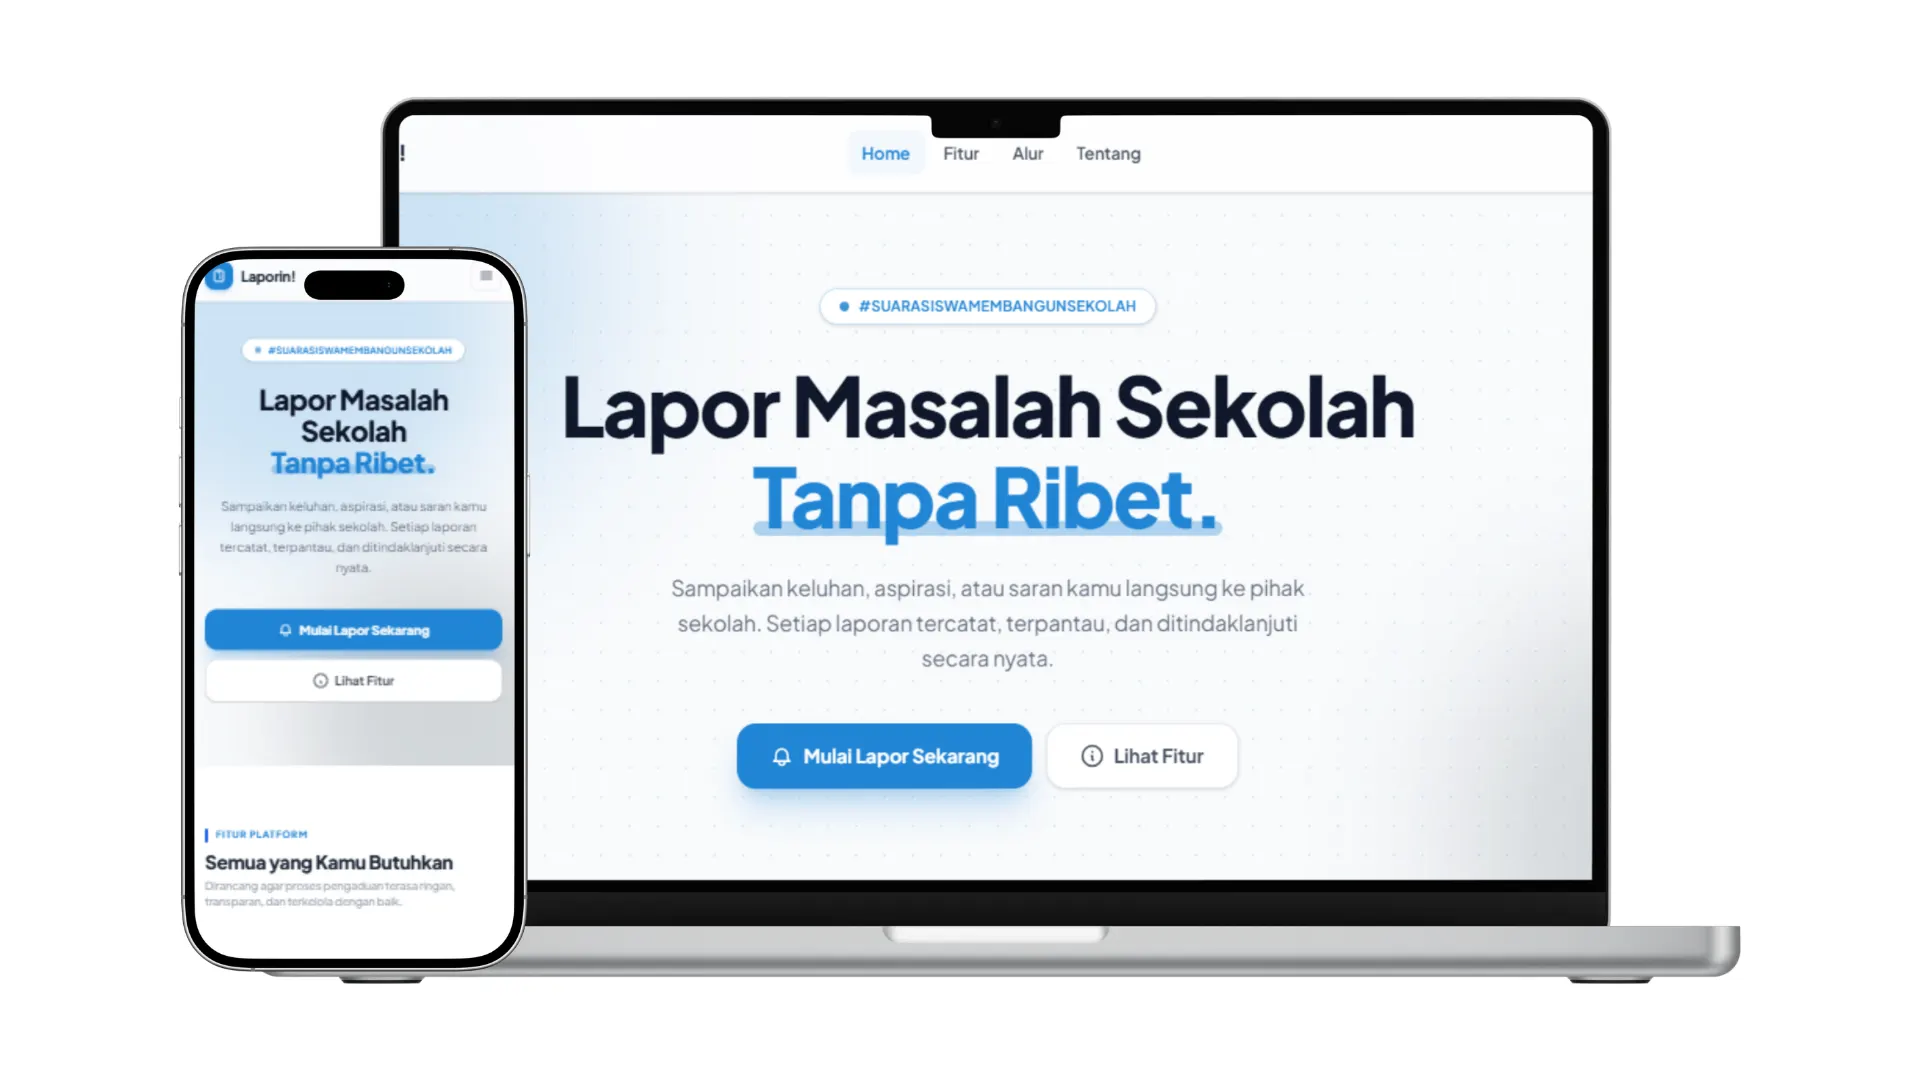
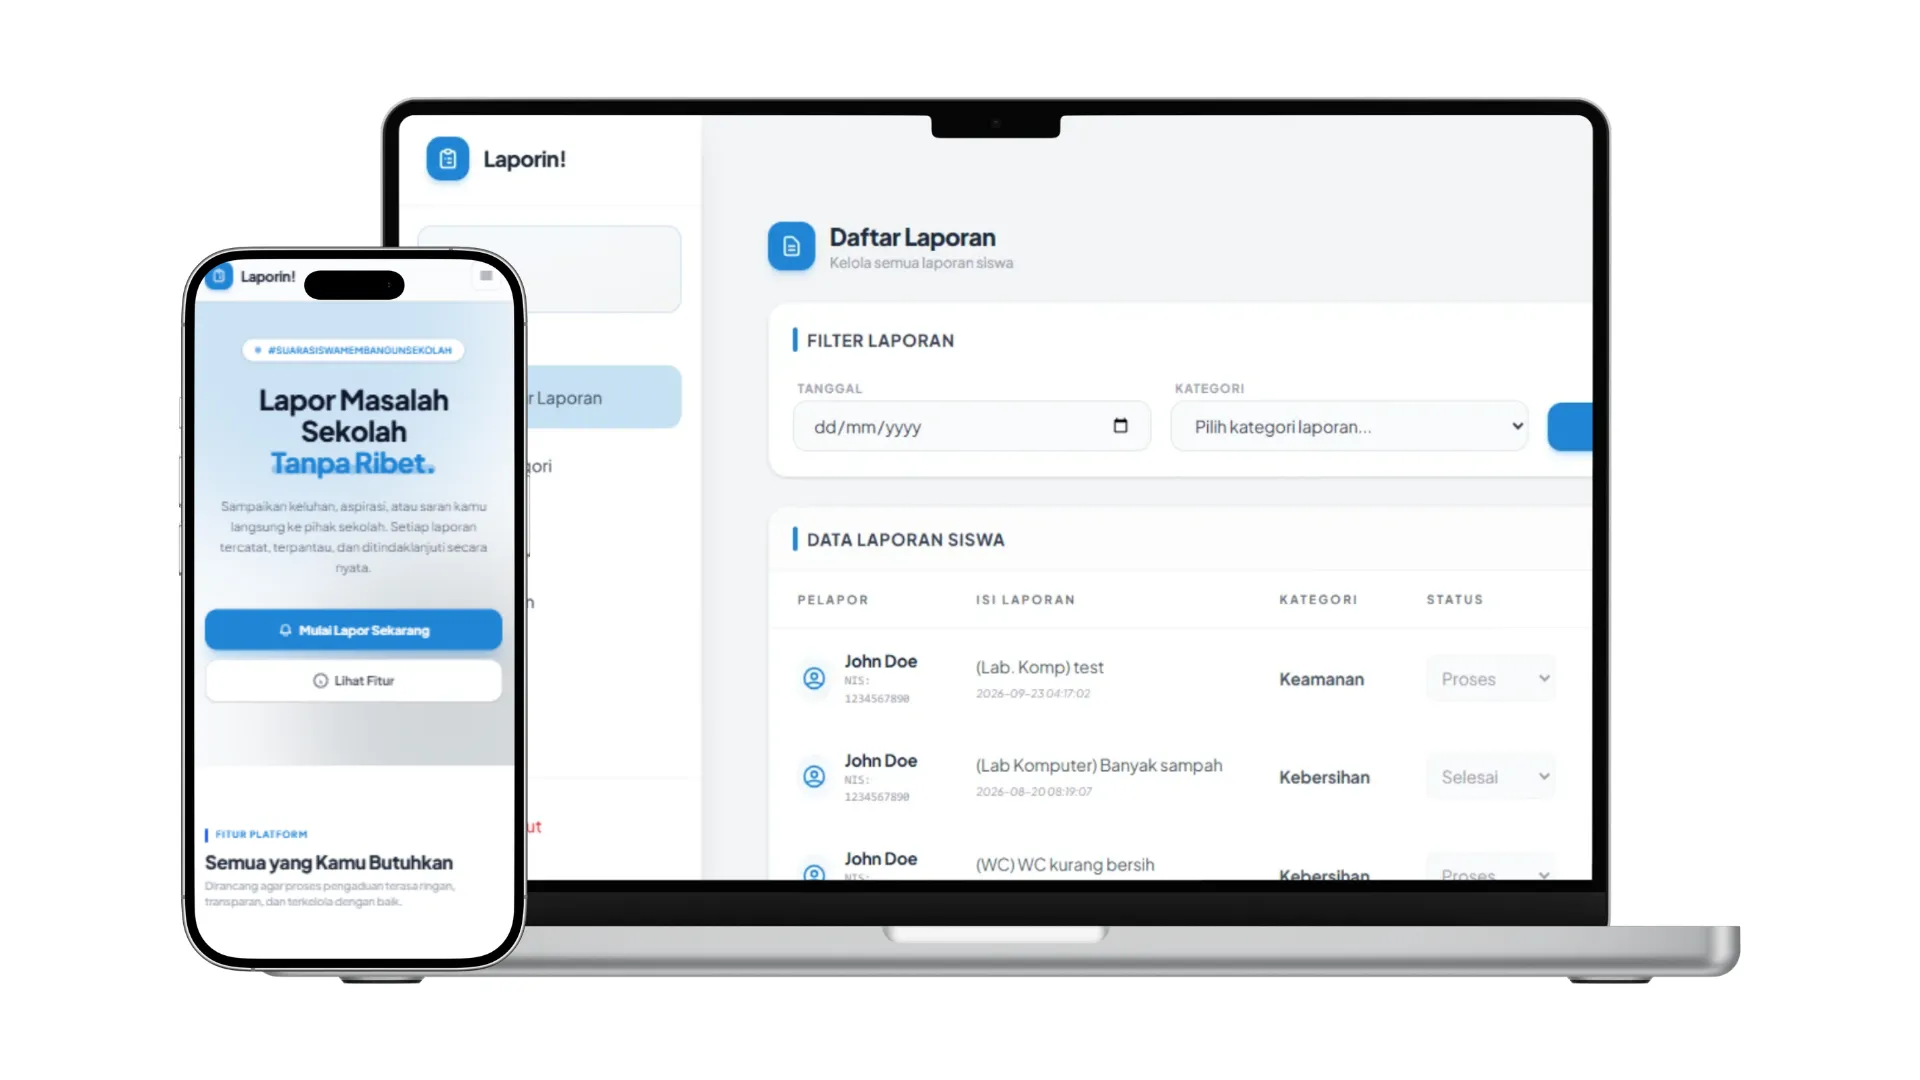
feat: menambahkan portfolio baru dan menyesuaikan hero section

diff --git a/src/data/portfolioData.js b/src/data/portfolioData.js
@@ -103,6 +103,7 @@ export const portfolioData = {
 			],
 			portfolios: [
 				{ name: "Laporin!", desc: "Web-based school facility complaint system with a structured reporting workflow.", foto: "src/img/porto/porto8.webp", github: "https://github.com/jstzaa", demo: "https://github.com/jstzaa", tech: ["Laravel", "Tailwind CSS", "MySQL", "Alpine.js"] },
+				{ name: "Website PPKM", desc: "Documentation website for the 2026 PPKM activities of the Informatics Department, Siliwangi University.", foto: "src/img/porto/porto9.webp", github: "https://github.com/jstzaa", demo: "https://github.com/jstzaa", tech: ["HTML", "Tailwind CSS", "Alpine.js"] },
 				{ name: "Docs Club Taekwondo", desc: "Interactive documentation and user guide website designed to streamline member onboarding.", foto: "src/img/porto/porto7.webp", github: "https://github.com/jstzaa", demo: "https://github.com/jstzaa", tech: ["HTML", "Tailwind CSS", "JavaScript"] },
 				{ name: "Portfolio V2", desc: "Personal portfolio website featuring structured navigation, bilingual content, and dark mode.", foto: "src/img/porto/porto6.webp", github: "https://github.com/jstzaa/zaa-v2", demo: "https://zaa-dev.vercel.app", tech: ["HTML", "Tailwind CSS", "Alpine.js", "JavaScript"] },
 				{ name: "Company Profile CV. Access Media", desc: "Corporate profile website presenting company identity, services, and business credentials.", foto: "src/img/porto/porto5.webp", github: "https://github.com/jstzaa", demo: "https://github.com/jstzaa", tech: ["Laravel", "Tailwind CSS", "MySQL"] },
@@ -165,6 +166,7 @@ export const portfolioData = {
 			],
 			portfolios: [
 				{ name: "Laporin!", desc: "Sistem pengaduan sarana dan fasilitas sekolah berbasis web dengan alur pelaporan terstruktur.", foto: "src/img/porto/porto8.webp", github: "https://github.com/jstzaa", demo: "https://github.com/jstzaa", tech: ["Laravel", "Tailwind CSS", "MySQL", "Alpine.js"] },
+				{ name: "Website PPKM", desc: "Website dokumentasi kegiatan PPKM Informatika Universitas Siliwangi 2026.", foto: "src/img/porto/porto9.webp", github: "https://github.com/jstzaa", demo: "https://github.com/jstzaa", tech: ["HTML", "Tailwind CSS", "Alpine.js"] },
 				{ name: "Docs Club Taekwondo", desc: "Dokumentasi dan panduan interaktif aplikasi Club Taekwondo untuk mempermudah onboarding anggota.", foto: "src/img/porto/porto7.webp", github: "https://github.com/jstzaa", demo: "https://github.com/jstzaa", tech: ["HTML", "Tailwind CSS", "JavaScript"] },
 				{ name: "Portfolio V2", desc: "Website portofolio personal dengan navigasi terstruktur, dukungan dwi-bahasa, dan mode gelap.", foto: "src/img/porto/porto6.webp", github: "https://github.com/jstzaa/zaa-v2", demo: "https://zaa-dev.vercel.app", tech: ["HTML", "Tailwind CSS", "Alpine.js", "JavaScript"] },
 				{ name: "Profil Perusahaan CV. Access Media", desc: "Website profil perusahaan untuk memperkuat identitas brand dan informasi layanan bisnis.", foto: "src/img/porto/porto5.webp", github: "https://github.com/jstzaa", demo: "https://github.com/jstzaa", tech: ["Laravel", "Tailwind CSS", "MySQL"] },

diff --git a/src/components/HeroSection.vue b/src/components/HeroSection.vue
@@ -35,7 +35,7 @@
 					<span>{{ t('hero_intro') }}</span>
 				</h1>
 				<div class="h-full my-3" data-aos="fade-down" data-aos-delay="200">
-					<span ref="typedEl" class="text-2xl md:text-3xl" translate="no"></span>
+					<span ref="typedEl" class="text-2xl md:text-3xl font-geist-pixel" translate="no"></span>
 				</div>
 				<div class="flex flex-col lg:flex-row items-center gap-3 lg:gap-5" data-aos="fade-down" data-aos-delay="250">
 					<div class="flex flex-row items-center gap-2 text-5xl">
@@ -63,7 +63,7 @@
 						:border-radius="30"
 						mix-blend-mode="screen"
 						href="https://drive.google.com/uc?export=download&id=1wluovSh9J_fcF8Sa35e0HbDC8XVaGgzO"
-						class="flex justify-center items-center gap-2 px-10 py-2 bg-transparent rounded-full backdrop-blur-sm border border-white/20 cursor-pointer hover:bg-secondary hover:text-primary transition-all duration-300"
+						class="flex justify-center items-center font-geist-pixel gap-2 px-10 py-2 bg-transparent rounded-full backdrop-blur-sm border border-white/20 cursor-pointer hover:bg-secondary hover:text-primary transition-all duration-300"
 					>
 						Download CV
 					</GlassSurface>

diff --git a/src/style.css b/src/style.css
@@ -3,6 +3,7 @@
 @import url("https://fonts.googleapis.com/css2?family=Instrument+Sans:ital,wght@0,400..700;1,400..700&family=Instrument+Serif:ital@0;1&display=swap");
 @import url('https://fonts.googleapis.com/css2?family=Playfair:ital,opsz,wght@0,5..1200,300..900;1,5..1200,300..900&family=Plus+Jakarta+Sans:ital,wght@0,200..800;1,200..800&family=Press+Start+2P&display=swap');
 @import url('https://fonts.googleapis.com/css2?family=Geist:ital,wght@0,100..900;1,100..900&display=swap');
+@import url('https://fonts.googleapis.com/css2?family=Geist+Pixel&display=swap');
 @import "tailwindcss";
 
 :root {
@@ -23,7 +24,8 @@
 
 @theme inline {
 	--font-archivo: "Archivo", sans-serif;
-	--font-geist: "geist", sans-serif;
+	--font-geist: "Geist", sans-serif;
+	--font-geist-pixel: "Geist Pixel", sans-serif;
 	--font-syne: "Syne", sans-serif;
 	--font-instrument-sans: "Instrument Sans", sans-serif;
 	--font-instrument-serif: "Instrument Serif", serif;
